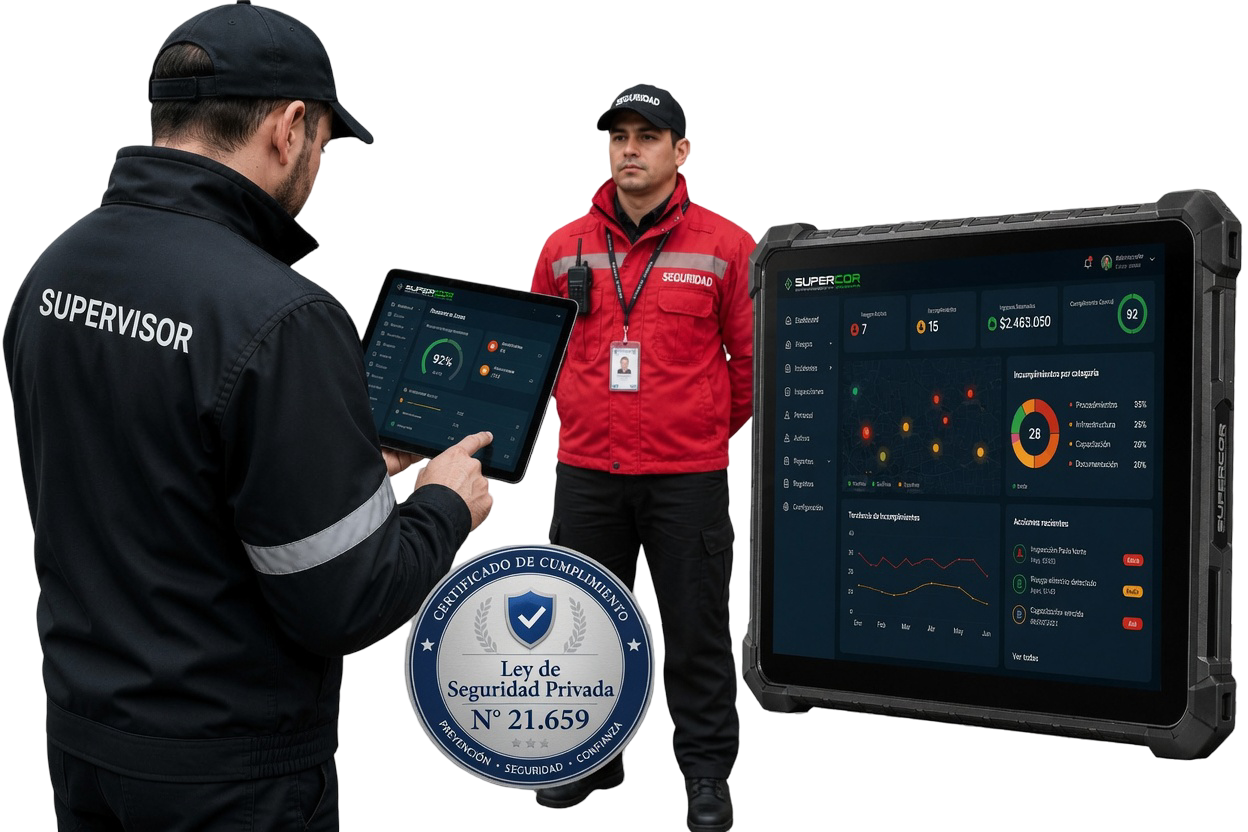
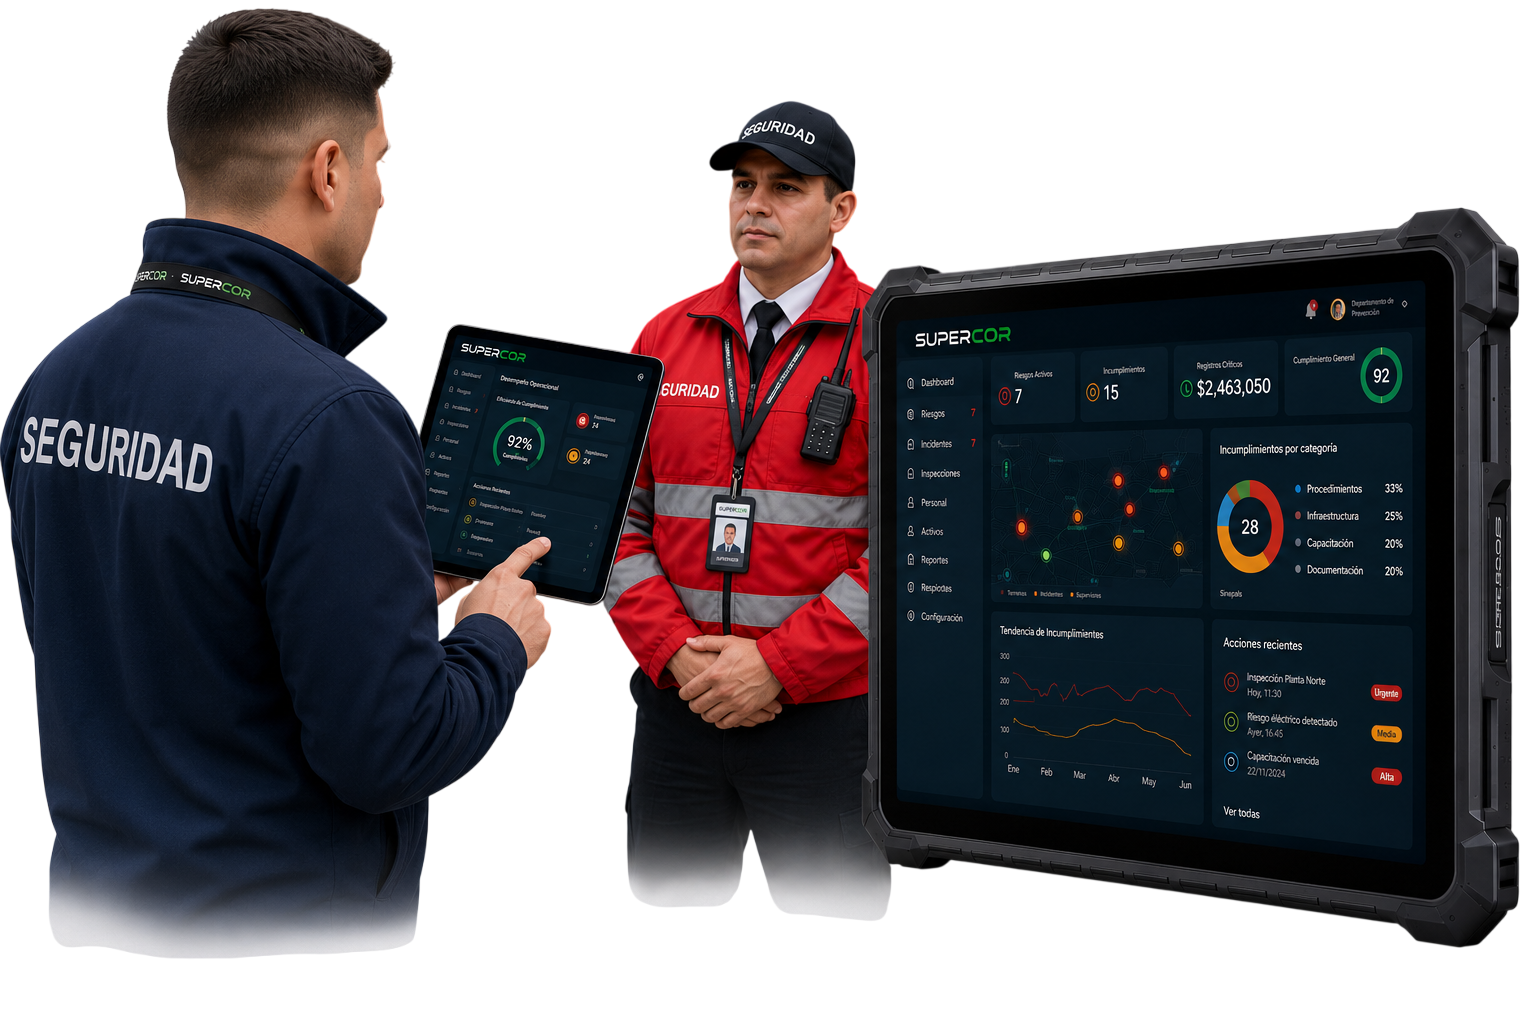
fix: reemplaza hero y sellos por versiones PNG con fondo transparente

diff --git a/index.html b/index.html
@@ -598,7 +598,7 @@
       </div>
     </div>
     <div class="hero-right fade-in">
-      <img src="assets/portada-supercor-v2.jpg" alt="Equipo de guardias de seguridad SUPERCOR revisando la plataforma de cumplimiento en una tablet en terreno" fetchpriority="high" />
+      <img src="assets/hero-supercor.png" alt="Equipo de guardias de seguridad SUPERCOR revisando la plataforma de cumplimiento en una tablet en terreno" fetchpriority="high" />
       <img src="assets/sello-21659.png" class="hero-sello" alt="Sello Certificado de Cumplimiento — Ley de Seguridad Privada N° 21.659" />
     </div>
   </div>
